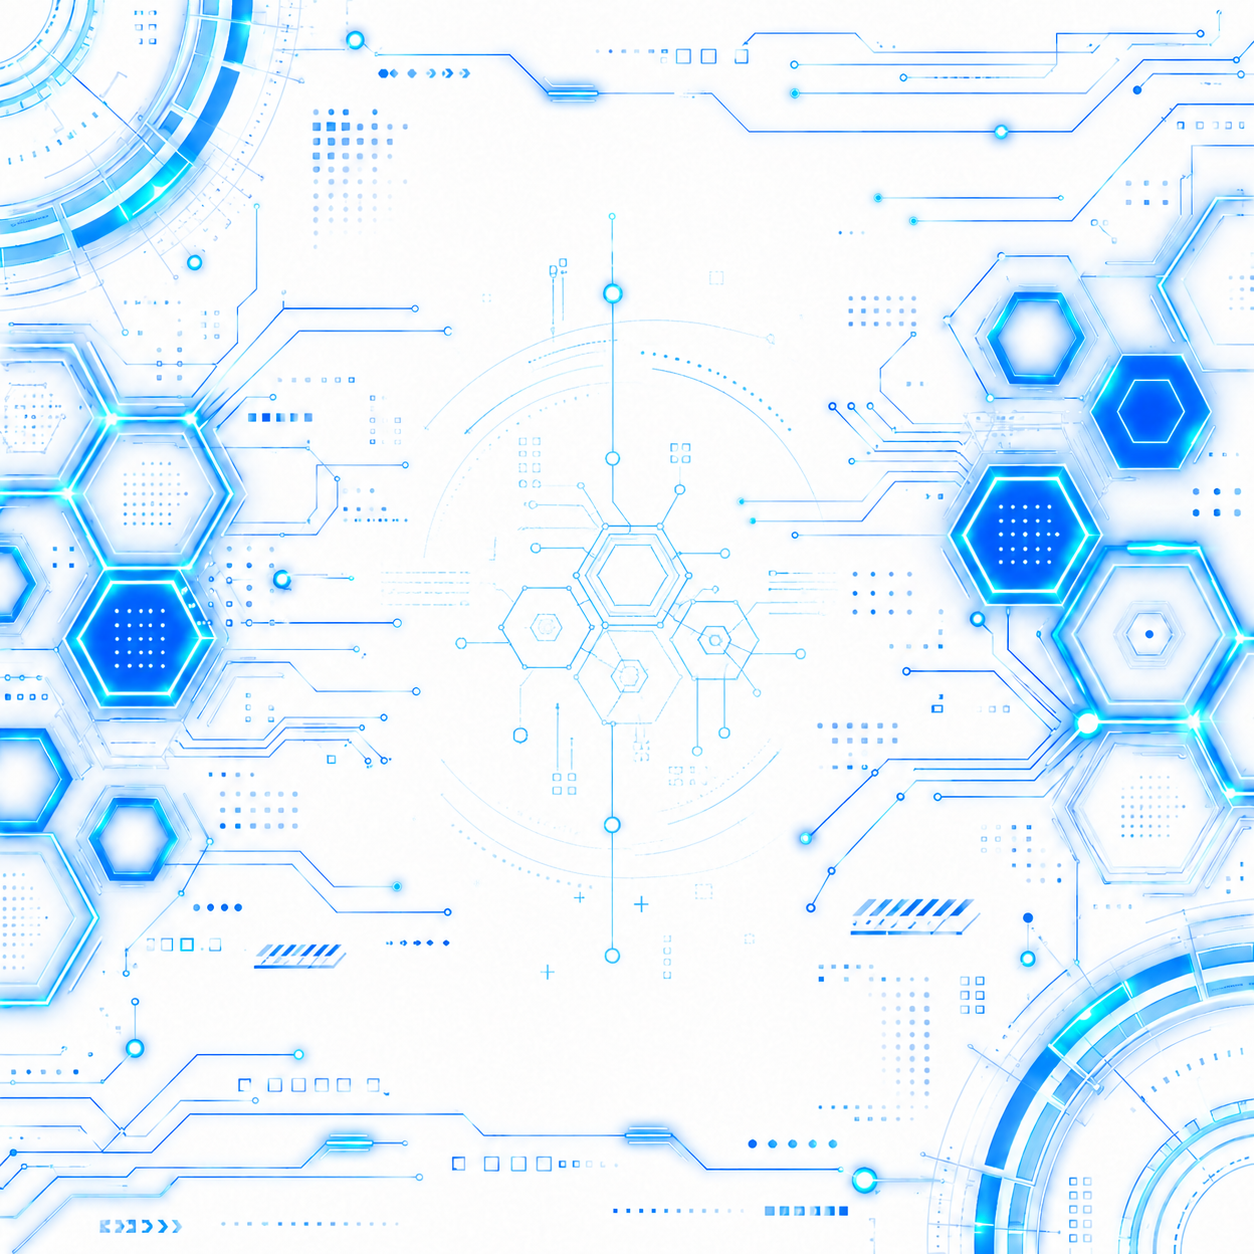
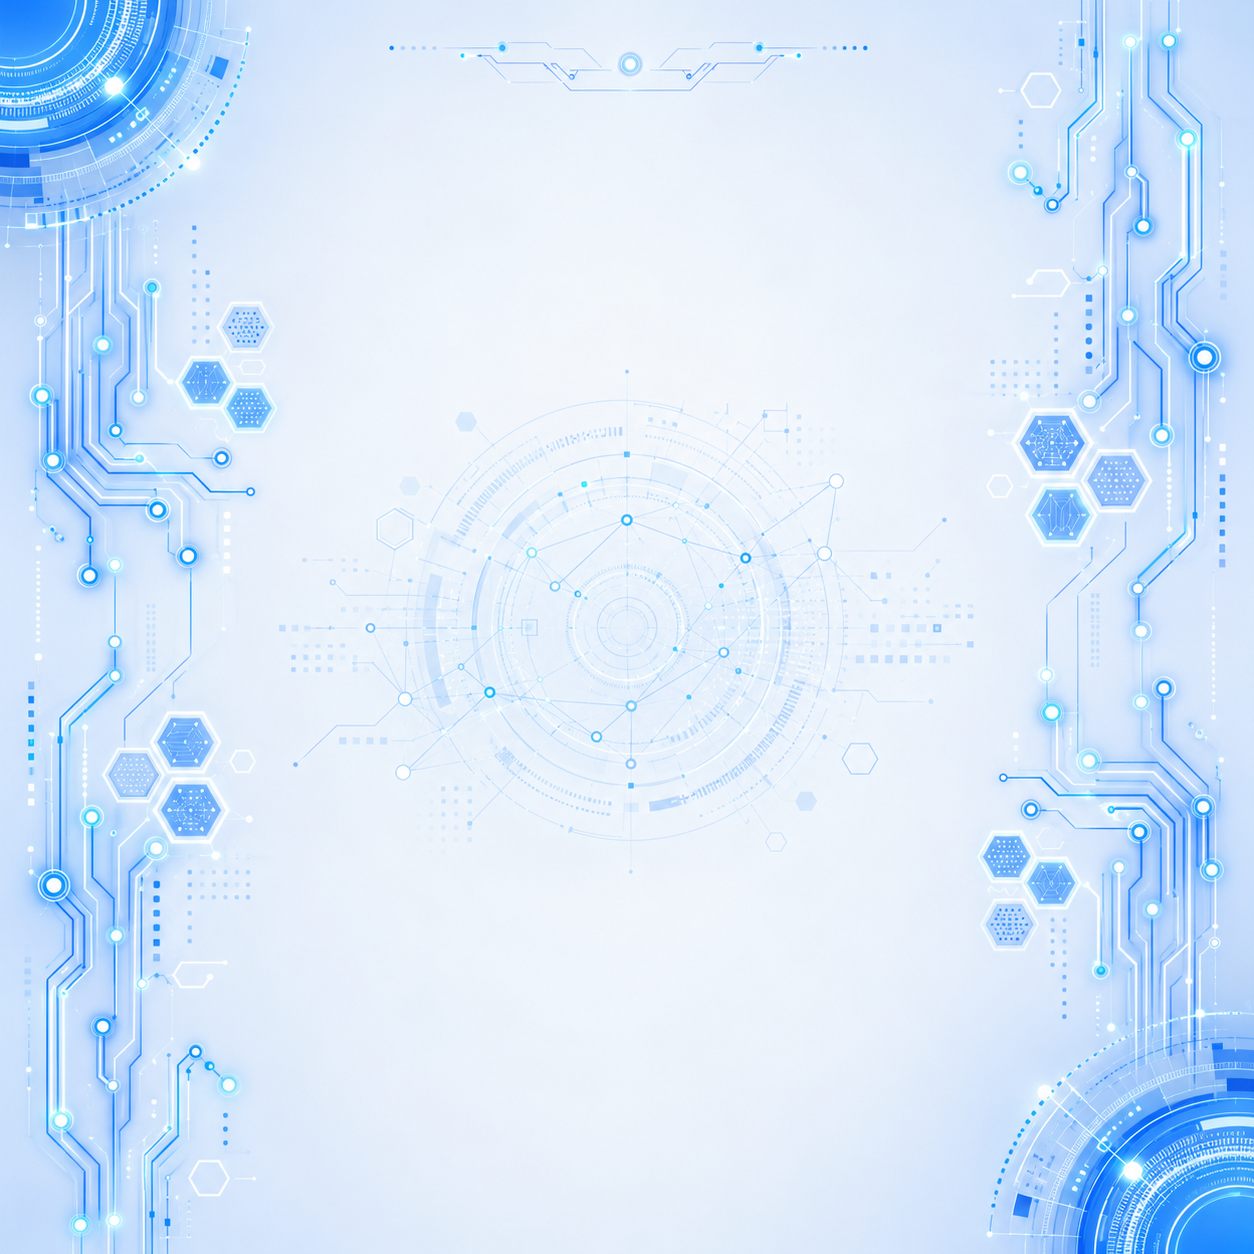
Giảm độ mờ nền trang (68% -> 52%) cho hoạ tiết rõ hơn

diff --git a/css/style.css b/css/style.css
@@ -16,7 +16,7 @@
 body {
   font-family: 'Segoe UI', Arial, sans-serif;
   background:
-    linear-gradient(rgba(236,243,251,0.68), rgba(236,243,251,0.68)),
+    linear-gradient(rgba(236,243,251,0.52), rgba(236,243,251,0.52)),
     url('../assets/background%202.png') center / cover no-repeat,
     linear-gradient(180deg, #EDF3FB 0%, #E5EDF7 100%);
   background-attachment: fixed;